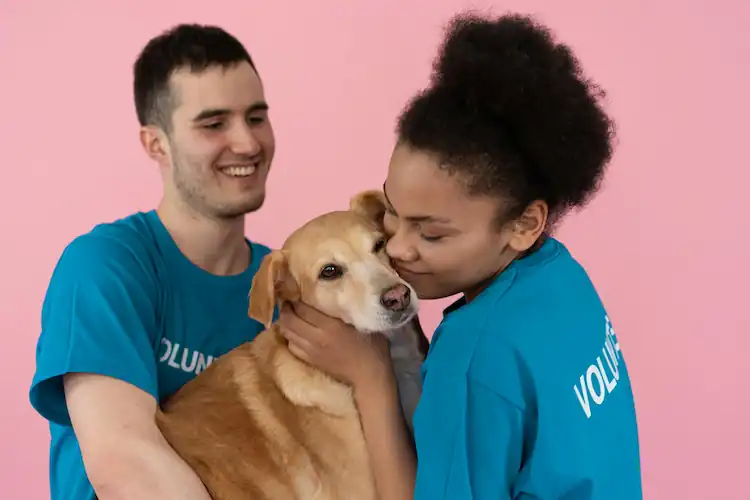
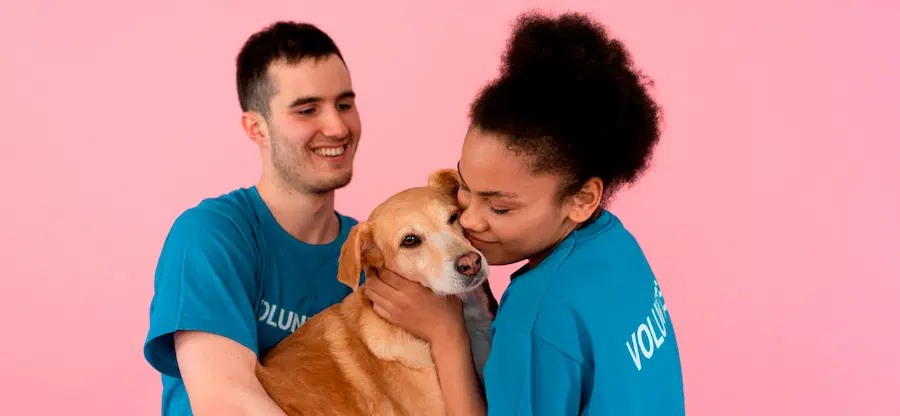
Homepage CSS updates, images and form enhancement. Added a Thanks page

diff --git a/project/index.html b/project/index.html
@@ -38,10 +38,10 @@
             <h1>WELCOME TO GREAT & SMALL WHISKERS</h1>
             <picture>
                 <source media="(max-width: 450px)" srcset="images/hero-small.webp">
-                <source media="(max-width: 800px)" srcset="images/hero-medium.webp">
+                <source media="(max-width: 1000px)" srcset="images/hero-medium.webp">
                 <img src="images/hero-large.webp" alt="Pets at Great & Small Whiskers" width="1500" height="1000" fetchpriority=high>
             </picture>
-            <p>Lorem ipsum dolor sit amet consectetur adipisicing elit. Perferendis voluptates odit nesciunt consequuntur officia officiis laudantium numquam exercitationem id mollitia est commodi doloribus, quaerat deserunt architecto ea aut reiciendis suscipit?</p>
+            <p>At Great and Small Whiskers, we believe every heartbeat deserves a home. From tiny paws to noble snouts, our shelter provides a sanctuary for animals of all shapes and sizes. Whether you are looking for a playful kitten, a loyal dog, or a gentle rabbit, your new best friend is waiting.</p>
         </div>
         <!-- INFO SECTION -->
         <section>
@@ -51,20 +51,17 @@
                 <figure class="card">
                     <figcaption>Rescued pets</figcaption>
                     <img src="images/pets.webp" alt="Pets for adoption" loading="lazy">
-                    <p></p>
                     <span class="button"><a href="adopt-help.html">Adopt</a></span>
-                </figure>
-                <figure class="card" id="second">
-                    <figcaption>Be part of our family</figcaption>
-                    <img src="images/family.webp" alt="Great & Small Whiskers family" loading="lazy">
-                    <p></p>
-                    <span class="button"><a href="adopt-help.html">Help</a></span>
                 </figure>
                 <figure class="card" id="third">
                     <figcaption>Pet care services</figcaption>
                     <img src="images/pet-care.webp" alt="Pet care services" loading="lazy">
-                    <p></p>
                     <span class="button"><a href="">Know More</a></span>
+                </figure>
+                <figure class="card" id="second">
+                    <figcaption>Be part of our family</figcaption>
+                    <img src="images/family.webp" alt="Great & Small Whiskers family" loading="lazy">
+                    <span class="button"><a href="adopt-help.html">Ways to Help</a></span>
                 </figure>
             </div>
         </section>
@@ -74,7 +71,8 @@
             <!-- FORM -->
             <div class="formContainer">
                 <picture>
-                    <source media="(max-width: 500px)" srcset="images/pets-call-small.webp">
+                    <source media="(max-width: 500px)" srcset="images/pets-call.webp">
+                    <source media="(max-width: 800px)" srcset="images/pets-call-small.webp">
                     <img src="images/pets-call-medium.webp" alt="Cat and dog playing together" loading="lazy">
                 </picture>
                 <form id="subsForm" method="get" action="thanks.html">

diff --git a/project/thanks.html b/project/thanks.html
@@ -1,0 +1,55 @@
+<!DOCTYPE html>
+<html lang="en">
+<head>
+    <meta charset="UTF-8">
+    <meta name="viewport" content="width=device-width, initial-scale=1.0">
+    <title>Product Review Form</title>
+    <meta name="description" content="This is a product review form, created using different form elements and best practices for forms.">
+    <meta name="author" content="Alvin Timaná">
+    <!-- /////////// - STYLES - /////////// -->
+    <link rel="stylesheet" href="styles/base.css">
+    <link rel="stylesheet" href="styles/base-large.css">
+    <!-- //////////// - FONTS - //////////// -->
+    <link rel="preconnect" href="https://fonts.googleapis.com">
+    <link rel="preconnect" href="https://fonts.gstatic.com" crossorigin>
+    <link href="https://fonts.googleapis.com/css2?family=Roboto:wght@700&family=Spectral&display=swap" rel="stylesheet">
+    <!-- /////////// - SCRIPTS - /////////// -->
+</head>
+<body>
+    <header>
+        <!-- Logo -->
+        <img class="logo" src="images/gsw-logo-white.svg" alt="Great & Small Whiskers!" width="130" height="80">
+        <span id="bName">Great & Small Whiskers</span>
+        <h1>Thank you for joining our newsletter!</h1>
+    </header>
+    <main>
+        <!-- Thank you message -->
+        <div class="card links thanks">
+            <h2>Subscribed successfully</h2>
+            <a class="button" href="index.html">Go back</a>
+        </div>
+    </main>
+    <footer>
+        <div class="f-footer">
+            <!-- Logo -->
+            <img class="logo" src="images/gsw-logo-white.svg" alt="Great & Small Whiskers!"  width="130" height="80">
+            <!-- Useful Links -->
+            <nav class="links">
+                <ul>
+                    <li><a href="adopt-help.html">Adopt & Help</a></li>
+                    <li><a href="care-center.html">Pet Care</a></li>
+                    <li><a href="references.html">References</a></li>
+                </ul>
+            </nav>
+            <!-- Social Media Logos -->
+            <div id="media">
+                <p>Follow Us:</p>
+                <a href="https://instragram.com"><img src="images/instagram-logo.svg" alt="Instagram" width="30" height="30"></a>
+                <a id="facebook-logo" href="https://facebook.com"><img src="images/facebook-logo.svg" alt="Facebook" width="30" height="30"></a>
+                <a href="https://x.com"><img src="images/twitter-x-logo.svg" alt="Twitter - X" width="30" height="30"></a>
+            </div>
+        </div>
+        <p>©<span id="currentYear"></span> Great & Small Whiskers. 🐶 Alvin Timaná 🐱 Lima, Perú</p>
+    </footer>
+</body>
+</html>

diff --git a/project/styles/base-large.css b/project/styles/base-large.css
@@ -1,6 +1,6 @@
 @media (min-width: 501px) {
     /* ------------ GENERAL ------------ */
-    main {
+    section {
         max-width: 1000px;
         margin: 0 auto 1rem;
     }
@@ -20,14 +20,9 @@
         display: none;
     }
 
-    nav {
-        justify-content: space-between;
-        flex: 1 1 auto;
-        padding: 0;
-    }
-
     .navigation {
         flex-direction: row;
+        justify-content: space-around;
     }
 
     .navigation a {
@@ -39,19 +34,22 @@
     /* -------------- FORM -------------- */
     .formContainer {
         display: grid;
-        grid-template-columns: 1fr auto;
+        grid-template-columns: auto 2fr;
+        align-items: stretch;
+        height: auto;
     }
 
     .formContainer img {
-        max-height: 300px;
+        max-height: 20rem;
         width: 100%;
         height: auto;
         opacity: 100%;
-        padding: 0 0.5rem;
+        padding: .5rem;
     }
 
     #subsForm {
         position: relative;
+        padding: .5rem 0;
     }
 
     /* ----- FOOTER ADDITIONAL RULES ----- */
@@ -69,8 +67,12 @@
         border-radius: 5px;
     }
 
-    footer p {
-        text-align: center;
+    .f-footer {
+        flex-direction: row;
+    }
+
+    .f-footer .links a {
+        padding: 1rem;
     }
 }
 
@@ -81,6 +83,7 @@
         position: relative;
         background-color: var(--text-color);
         height: min-content;
+        /* container-type: inline-size; */
     }
 
     .hero picture {
@@ -88,23 +91,50 @@
         opacity: .6;
     }
 
+    .hero img {
+        width: 100%;
+        height: auto;
+    }
+
     .hero h1, .hero p {
         position: absolute;
         color: var(--background-color);
+        left: 5%;
+        right: 5%;
     }
 
     .hero h1 {
-        left: 10%;
-        right: 10%;
-        top: 15%;
+        top: 5%;
         padding: 1rem;
         margin: 0 auto;
-        font-size: 4rem;
+        font-size: 3.5rem;
         color: var(--background-color);
     }
 
     .hero p {
-        bottom: 35%;
+        top: 50%;
         padding: 2rem;
+    }
+}
+
+@media (min-width: 1201px) {
+    .hero h1{
+        top: 10%;
+    }
+
+    .hero h1, .hero p {
+        left: 15%;
+        right: 15%;
+    }
+}
+
+@media (min-width: 1401px) {
+    .hero h1{
+        font-size: 4rem;
+    }
+
+    .hero h1, .hero p {
+        left: 20%;
+        right: 20%;
     }
 }

diff --git a/project/adopt-help.html b/project/adopt-help.html
@@ -4,10 +4,11 @@
     <meta charset="UTF-8">
     <meta name="viewport" content="width=device-width, initial-scale=1.0">
     <title>Great & Small Whiskers - Pet Shelter</title>
-    <meta name="description" content="Welcome to Great & Small Whiskers! Here all kind of pets are part of our family.">
+    <meta name="description" content="Great & Small Whiskers pet adoption! Whether you are looking for a playful kitten, a loyal dog, or a gentle rabbit, your new best friend is waiting.">
     <meta name="author" content="Alvin Timaná">
     <!-- /////////// - STYLES - /////////// -->
-    <link rel="stylesheet" href="styles/main.css">
+    <link rel="stylesheet" href="styles/base.css">
+    <link rel="stylesheet" href="styles/base-large.css">
     <!-- //////////// - FONTS - //////////// -->
     <link rel="preconnect" href="https://fonts.googleapis.com">
     <link rel="preconnect" href="https://fonts.gstatic.com" crossorigin>

diff --git a/project/styles/base.css b/project/styles/base.css
@@ -121,7 +121,7 @@ nav {
 }
 
 .button:hover {
-    background-color: var(--background-color);
+    background-color: var(--accent-color1);
     color: var(--text-color);
     box-shadow: inset  1px 1px 5px var(--text-color);
 }
@@ -211,7 +211,7 @@ section {
     border-radius: 5px;
     position: relative;
     width: 100%;
-    height: 21rem;
+    height: 22rem;
     background-color: var(--text-color);
 }
 
@@ -268,6 +268,7 @@ footer {
     text-align: center;
     justify-content: center;
     align-items: center;
+    flex-direction: column;
 }
 
 .f-footer ul {
@@ -280,5 +281,17 @@ footer {
 
 .f-footer .links a {
     color: var(--background-color);
-    padding: 1rem;
+    padding: .5rem;
+}
+
+footer p {
+    text-align: center;
+}
+
+/************ THANK YOU PAGE *************/
+header h1 {
+    color: var(--background-color);
+}
+.thanks .button {
+    padding: .5rem;
 }
